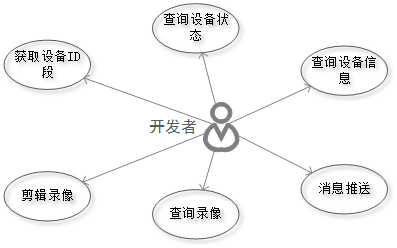
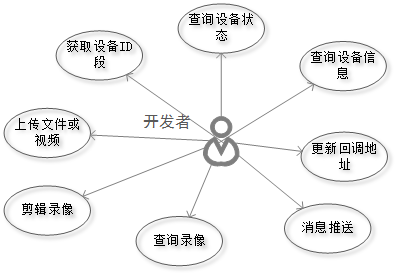
功能用例图分拆至各个SDK

diff --git a/integration.md b/integration.md
@@ -40,30 +40,8 @@
 ##5. 羚羊云服务架构
 ![Alt text](./images/struct.png "羚羊云服务架构") 
 
-##6. 羚羊云SDK功能
-从上面的整体架构中，可以看出羚羊云SDK可以分两大类:供应用服务器调用的Web API和供应用客户端调用的客户端SDK。以下是SDK的主要功能用例图：
-
-![Alt text](./images/usercase.png "羚羊云SDK的功能")
-
-注：以上图中仅仅列出了主要功能，更多具体的功能在各个SDK的开发文档中有详细介绍。
-
-可以看出客户端SDK只为应用客户端提供功能，而Web API部分功能是提供给应用客户端，部分提供给应用服务器。以下功能列表简要描述了各个功能：
-
-| ID | 功能名称 | 功能简要描述 |
-|----|----|----|
-| 1 | 获取设备id段 | 向羚羊云获取用户所拥有的设备id段，用户会在这个id段内分配一个羚羊id给用户的每个设备，这个羚羊id也称cid. |
-| 2 | 查询设备状态及信息 | 查询指定设备的状态，如：离线、就绪、转发中等，另外还可以查询设备的信息，如设备配置类型、公网ip、内网ip等。 |	
-| 3 | 服务器推送消息 | 应用服务器推送消息给用户名下的多个设备。 |
-| 4 | 客户端推送消息 | 客户端推送消息给用户名下的一个或多个设备，也可以向用户的http回调地址推送消息。 |
-| 5 | 剪辑录像 | 该功能包含：创建剪辑任务、查询剪辑状态以及剪辑的视频信息、查询剪辑任务列表、以及删除指定的已剪辑数据。 |
-| 6 | 查询录像 | 查询指定设备的录像时间轴，例如哪些天哪些时段是有录像的。 |
-| 7 | 直播播放 | 从羚羊云中拉取指定设备的音视频流，之后在本地进行解码播放。 |
-| 8 | 直播推流 | 在本地采集音视频后编码，向羚羊云推送编码后的音视频流。 |
-| 9 | 回放录像 | 拉取指定设备指定时间段的录像，在本地进行解码播放。 |
-| 10 | 监听消息 | 持续接收任何远程应用客户端或服务器经过羚羊云推送过来的消息，并通知到本地上层应用。 |
-
-##7. 快速接入羚羊云
-###7.1 接入对象
+##6. 快速接入羚羊云
+###6.1 接入对象
 所有需要使用羚羊云视频相关应用服务的用户，即羚羊云的接入对象。一般来讲，用户自己的应用通常包含客户端和服务器。
 
 - `应用客户端`
@@ -72,10 +50,10 @@
 - `应用服务器`
 用来管理用户自己所属的设备信息、查询设备的状态、配置设备的参数等。
 
-###7.2 接入凭证
+###6.2 接入凭证
 这些设备想要接入羚羊云，首先必须获得app id和app key。进入[羚羊云用户管理平台](http://console.topvdn.com/)可申请app id和app key。
 
-###7.3 认证机制
+###6.3 认证机制
 用户在接入到羚羊云平台时，无论是用户的服务器还是客户端，都必须通过平台的安全认证，才能使用接口以实现应用。服务器和客户端有着不同的认证机制，如下图所示：
 
 ![Alt text](./images/verify.png "羚羊云认证机制")
@@ -88,7 +66,7 @@
 (1)应用服务器根据拿到的app key，按照羚羊云的token生成算法规则，计算得出一个token；token的计算方法可参见本文下一章节的[羚羊云平台token验证机制](http://doc.topvdn.com/api/#!public-doc/token_format.md)。
 (2)应用客户端向他们的应用服务器获取token，凭着这个token，才能成功调用羚羊云客户端SDK或Web API实现功能。
 
-###7.4 用户接入
+###6.4 用户接入
 - 应用服务器接入
 携带appid和appkey，调用羚羊云Web API向云平台发送http请求，返回调用结果，即完成接入。
 
@@ -101,7 +79,7 @@
 上述接入流程中的`查询设备id段`需调用[Web-API的'查询设备id段'](http://doc.topvdn.com/api/#!web_api_v2.md#2.1.2_%E6%9F%A5%E8%AF%A2%E8%AE%BE%E5%A4%87_ID_%E6%AE%B5)接口；
 `登录云平台`需要调用SDK的开启云服务接口。[iOS调用示例](http://doc.topvdn.com/api/public-doc/SDK-iOS/#!ios_guide.md#5.1_%E5%90%AF%E5%8A%A8%E4%BA%91%E6%9C%8D%E5%8A%A1) [Android调用示例](http://doc.topvdn.com/api/#!public-doc/SDK-Android/android_guide.md#5.1_%E5%90%AF%E5%8A%A8%E4%BA%91%E6%9C%8D%E5%8A%A1)
 
-##8. 使用羚羊云SDK
+##7. 使用羚羊云SDK
 按照上面介绍的方法和步骤接入到羚羊云平台之后，就可以开始调用SDK接口实现视频应用的功能了。以下是每种SDK的调用方法。
 
 [Web API](http://doc.topvdn.com/api/public-doc/Web-API/#!web_api_v2.md "Web API")
@@ -121,7 +99,7 @@
 [Demo-Android版](http://doc.topvdn.com/api/public-doc/SDK-Android/zipdown/ly_sdk_android.zip)
 [Demo-Windows版](http://doc.topvdn.com/api/public-doc/SDK-Windows/zipdown/ly_sdk_windows.zip)
 
-##9. 常见问题
+##8. 常见问题
 
 1. 什么是`appid`？怎么获取`appid`？
 答：`appid`是第三方友商和羚羊云建立合作关系后，由羚羊云分配的唯一标识第三方友商的4字节长度的字符串。第三方友商使用羚羊云SDK必须有appid才能正常使用。
@@ -149,3 +127,8 @@
 
 9. 如何实现`录像回放`的功能？录像存在羚羊云端的列表我们如何查看？找到视频列表后又如何按指定时间点播放录像？
 答：通过[Web API的查询设备录像时间轴接口](http://doc.topvdn.com/api/#!web_api_v2.md#2.2.1_%E8%AE%BE%E5%A4%87%E5%BD%95%E5%83%8F%E6%97%B6%E9%97%B4%E8%BD%B4)，可以查询到某个视频设备存放在羚羊云端的录像时间列表，然后调用羚羊云客户端SDK的播放器接口([iOS播放器接口调用示例](http://doc.topvdn.com/api/#!public-doc/SDK-iOS/ios_guide.md#5.4_%E6%92%AD%E6%94%BE%E5%99%A8)、[Android播放器接口调用示例](http://doc.topvdn.com/api/#!public-doc/SDK-Android/android_guide.md#5.4_%E6%92%AD%E6%94%BE%E5%99%A8))，传入指定格式的url参数，这个url参数需要通过应用服务器去获取。
+
+## 相关链接
+[羚羊云token认证机制](http://doc.topvdn.com/api/index.html#!public-doc/token_format.md)
+[羚羊云推拉流URL格式解析](http://doc.topvdn.com/api/index.html#!public-doc/url_format.md)
+

diff --git a/Web-API/web_api_v2.md b/Web-API/web_api_v2.md
@@ -85,7 +85,9 @@
 设备 token 和设备访问 token 的生成改到第三方，只要使用遵循我们给出的算法生成的 token 来进行请求都可以通过验证。羚羊云平台只控制第三方的 token 生成的 key。
 
 ## 2 接口列表
+接口功能
 
+![Alt text](./images/usercase-web.png "羚羊云Web API功能")
 ## 2.1 设备
 
 本节包含设备相关的接口，支持查询设备状态和 APP 的设备 ID 段信息。
@@ -1796,9 +1798,7 @@ request_id | string | 此次请求的唯一编号
 404 | 该上传文件不存在，可能已经被删除
 500 | 系统内部错误
 
-## 附录
-
-### 附录 1 回调请求
+## 附录 1 回调请求
 
 * 请求首部：
 
@@ -1828,7 +1828,7 @@ md5(X-APP-ID+request.body+X-APP-Key)
 
 对请求进行签名是为了让第三方的后台验证这个请求的合法性，检查请求在中途是否被篡改，所以第三方后台应该对每个回调的消息请求都进行签名校验。
 
-###  附录 1.1 设备消息回调
+##  附录 1.1 设备消息回调
 
 对于设备推送消息给设备的接口，第三方可以要求将这个消息回调传给第三方的服务器后端。
 
@@ -1868,7 +1868,7 @@ Accept-Encoding: gzip, deflate
 {"data": {"msg": "aGVsbG8=", "to": [5003062], "from": 1003200, "created": 1452666295}, "event": "device-message"}
 ```
 
-###  附录 1.2 录像剪辑回调
+##  附录 1.2 录像剪辑回调
 
 创建录像剪辑任务之后，当剪辑完成的时候会向第三方提供的回调接口发送本回调请求，请求体为 `json` 数据：
 
@@ -1900,7 +1900,7 @@ Accept-Encoding: gzip, deflate
 {"data": {"clip_id": 1024, "device": 1003775}, "event": "device-record-clip"}
 ```
 
-###  附录 1.3 设备状态变化
+##  附录 1.3 设备状态变化
 
 设备上/下线或者切换调度等状态变化的时候，如果第三方提供了状态回调地址，相关设备状态变化会被 POST 到这个地址：
 
@@ -1959,8 +1959,3 @@ Accept-Encoding: gzip, deflate
 
 {"data": {"tracker_port": 80, "local_port": 8200, "local_ip": "10.154.13.169", "public_port": 56569, "state": 1, "public_ip": "98.234.113.73", "config_type": 0, "relay_port": 0, "conn_key": 0, "device": 1003190, "relay_ip": "0.0.0.0", "tracker_ip": "203.195.157.248"}, "event": "device-state"}
 ```
-
-## 相关链接
-[羚羊云SDK接入指南](http://doc.topvdn.com/api/index.html#!public-doc/integration.md)
-[羚羊云token认证机制](http://doc.topvdn.com/api/index.html#!public-doc/token_format.md)
-[羚羊云URL格式解析](http://doc.topvdn.com/api/index.html#!public-doc/url_format.md)
